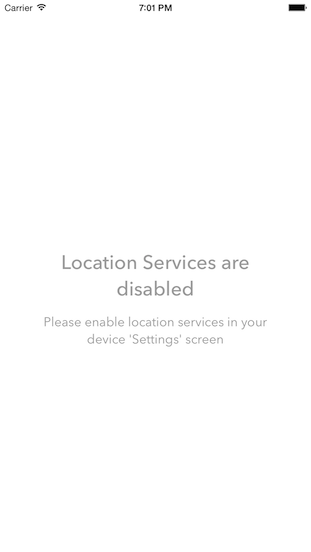
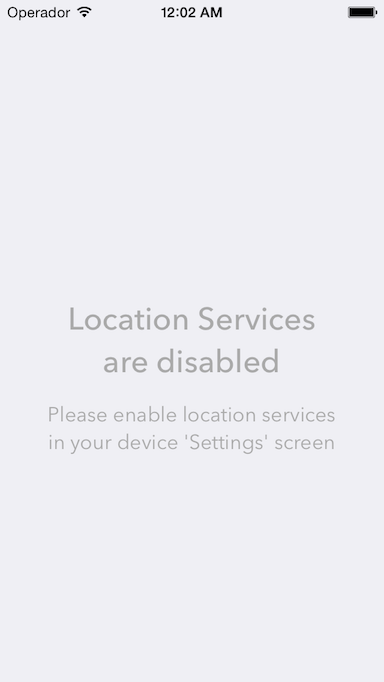
Everything updated!
Much extensiable
   Very WOW

diff --git a/UIViewController+BlankStateViewController.m b/UIViewController+BlankStateViewController.m
@@ -1,0 +1,62 @@
+//
+//  UIViewController+BlankStateViewController.m
+//  BikeCompass
+//
+//  Created by Raúl Riera on 26/10/2014.
+//  Copyright (c) 2014 Raúl Riera. All rights reserved.
+//
+
+#import "UIViewController+BlankStateViewController.h"
+
+@implementation UIViewController (BlankStateViewController)
+
+- (void)overlayBlankStateView:(BlankStateViewControllerType)viewType withTitle:(NSString *)title message:(NSString *)message
+{
+    BlankStateViewController* blankStateViewController = [[UIStoryboard storyboardWithName:@"BlankState" bundle:nil] instantiateViewControllerWithIdentifier:[self viewControllerIdentifierFromType:viewType]];
+    
+    [blankStateViewController setTitle:title andMessage:message];
+    
+    UIView *overlayView = blankStateViewController.view;
+    overlayView.tag = [self viewTag];
+    
+    [self.view addSubview:overlayView];    
+}
+
+- (void)overlayBlankStateViewWithTitle:(NSString *)title message:(NSString *)message
+{
+    [self overlayBlankStateView:BlankStateViewControllerTypeDefault withTitle:title message:message];
+}
+
+- (void)removeBlankStateViewOverlay
+{
+    UIView *overlayView = [self.view viewWithTag:[self viewTag]];
+    [overlayView removeFromSuperview];
+}
+
+- (BOOL)isBlankStateViewOverlayPresent
+{
+    return [self.view viewWithTag:[self viewTag]] != nil;
+}
+
+- (NSInteger)viewTag
+{
+    return 454567;
+}
+
+- (NSString *)viewControllerIdentifierFromType:(BlankStateViewControllerType)type
+{
+    NSString *viewControllerIdentifier;
+    
+    switch (type) {
+        case BlankStateViewControllerTypeDefault:
+            viewControllerIdentifier = @"BlankStateViewControllerDefault";
+            break;
+            
+        default:
+            break;
+    }
+    
+    return viewControllerIdentifier;
+}
+
+@end

diff --git a/UIViewController+BlankStateViewController.h b/UIViewController+BlankStateViewController.h
@@ -1,0 +1,27 @@
+//
+//  UIViewController+BlankStateViewController.h
+//  BikeCompass
+//
+//  Created by Raúl Riera on 26/10/2014.
+//  Copyright (c) 2014 Raúl Riera. All rights reserved.
+//
+
+#import <UIKit/UIKit.h>
+#import "BlankStateViewController.h"
+
+typedef enum : NSUInteger {
+    BlankStateViewControllerTypeDefault
+} BlankStateViewControllerType;
+
+@interface UIViewController (BlankStateViewController)
+
+- (void)overlayBlankStateViewWithTitle:(NSString *)title message:(NSString *)message;
+
+/*!
+ *	Use this method to remove any blank state view overlays present in the view stack
+ */
+- (void)removeBlankStateViewOverlay;
+
+- (BOOL)isBlankStateViewOverlayPresent;
+
+@end

diff --git a/BlankStateViewController.m b/BlankStateViewController.m
@@ -21,6 +21,7 @@
 
 - (void)viewDidLoad {
     [super viewDidLoad];
+    
     // Do any additional setup after loading the view.
     self.titleLabel.text = self.titleText;
     self.messageLabel.text = self.messageText;
@@ -31,15 +32,5 @@
     self.titleText = title;
     self.messageText = message;
 }
-
-/*
-#pragma mark - Navigation
-
-// In a storyboard-based application, you will often want to do a little preparation before navigation
-- (void)prepareForSegue:(UIStoryboardSegue *)segue sender:(id)sender {
-    // Get the new view controller using [segue destinationViewController].
-    // Pass the selected object to the new view controller.
-}
-*/
 
 @end

diff --git a/BlankStateViewController.h b/BlankStateViewController.h
@@ -10,6 +10,12 @@
 
 @interface BlankStateViewController : UIViewController
 
+/*!
+ *	Use this method to initialize the view controller with the information of your choosing
+ *
+ *	@param title   heading text
+ *	@param message message text
+ */
 - (void)setTitle:(NSString *)title andMessage:(NSString *)message;
 
 @end

diff --git a/README.md b/README.md
@@ -8,14 +8,26 @@ Convenience view controller to hide content on errors, present a loading message
 
 ## Usage:
 
-Simply init the view controller from the `BlankState` storyboard, include the title and message that you want to display and present it. You can add as many View Controller as you want to create several designs for these views.
+Simply import the category provided and call `overlayBlankStateViewWithTitle:message` method. There are other convenience methods that I encorage your to check to expand this controller to various needs. For example, you can add as many View Controller as you want to create several designs for these views.
+
+Below you can find an example of this view used to overlay a message when there is no location permission.
 
 ```objective-c
-self.blankStateViewController = [[UIStoryboard storyboardWithName:@"BlankState" bundle:nil] instantiateViewControllerWithIdentifier:@"BlankStateViewController"];
+- (void)locationManager:(CLLocationManager *)locationManager didChangeAuthorizationStatus:(CLAuthorizationStatus)status
+{
+    if (status == kCLAuthorizationStatusAuthorizedWhenInUse
+        || status == kCLAuthorizationStatusAuthorizedAlways) {
 
-[self.blankStateViewController setTitle:@"Location Services are disabled" andMessage:@"Please enable location services in your device 'Settings' screen"];
+        if (self.isBlankStateViewOverlayPresent) {
+            [self removeBlankStateViewOverlay];
+        }
 
-[self presentViewController:self.blankStateViewController animated:NO completion:nil];
+        [self displayStationInformation];
+
+    } else if (status == kCLAuthorizationStatusDenied) {
+        [self overlayBlankStateViewWithTitle:NSLocalizedString(@"Location Services are disabled", @"Generic title when the localisation is disabled") message:NSLocalizedString(@"Please enable location services in your device 'Settings' screen", @"Instructions on how to enable location services")];
+    }
+}
 ```
 
 ## About:
